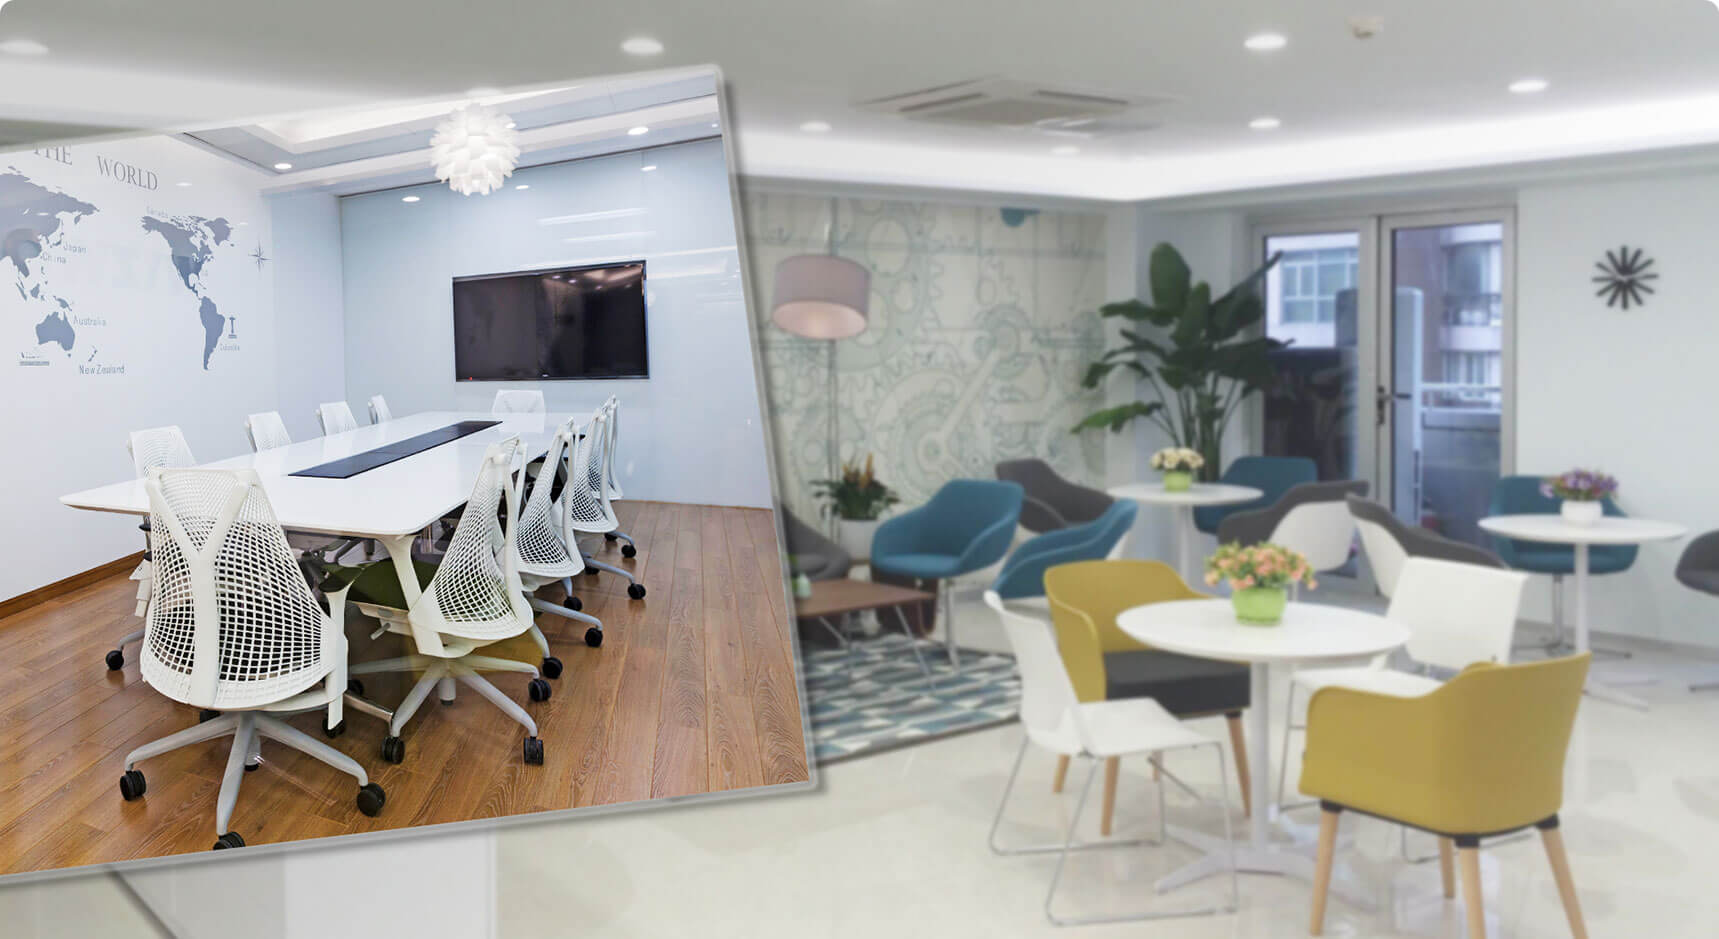
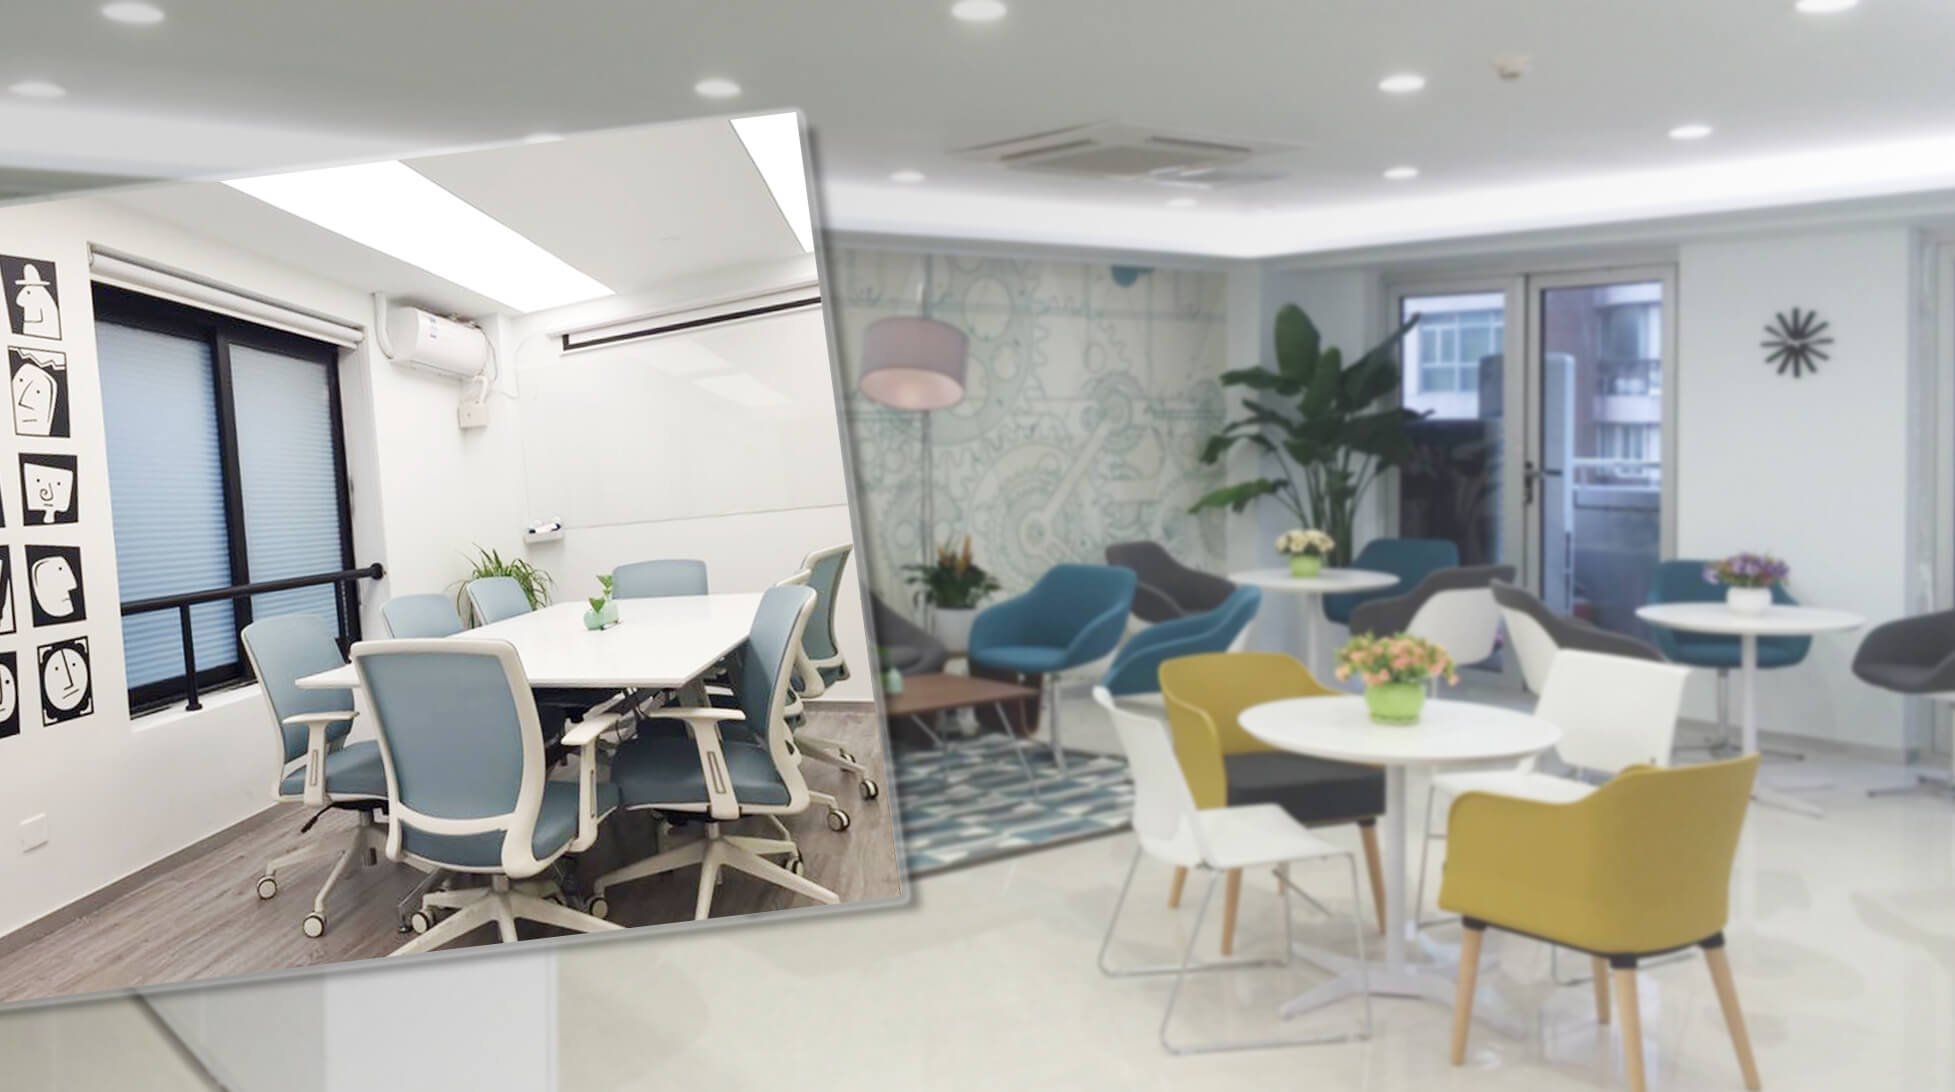
根据反馈修改按钮颜色，暂时取消首页筛选功能，替换嘉汇中心图片

diff --git a/src/pages/Home.vue b/src/pages/Home.vue
@@ -3,11 +3,11 @@
     <Topbar></Topbar>
     <div class="map">
       <img src="../images/map.jpg" alt="地图">
-      <a href="#" class="customer-service"></a>
     </div>
+    <a href="#" class="customer-service"></a>
     <div class="action-bar">
       <p class="selector-title">会议室/咖啡位位置</p>
-      <div class="selector-item before-txt">
+      <!--<div class="selector-item before-txt">
         <selector-center placeholder="类型" :options="type" @on-change="onTypeChange"></selector-center>
       </div>
       <div class="selector-item">
@@ -15,7 +15,7 @@
       </div>
       <div class="selector-item">
         <selector-center placeholder="人数" :options="members" @on-change="onMembersChange"></selector-center>
-      </div>
+      </div>-->
     </div>
     <div class="selections">
       <card @click="goToPage(item.id)" v-for="item in Location" :style="{ display: showCard(item.id) }" >
@@ -120,6 +120,13 @@ export default {
   background-color: #f4f4f4;
   overflow-x: scroll;
   height: 100%;
+  position: relative;
+}
+.home-layout .weui_panel {
+  background-color: transparent;
+}
+.home-layout .weui_panel:after {
+  border-bottom: 0;
 }
 .map {
   position: relative;
@@ -131,9 +138,10 @@ export default {
 }
 .customer-service {
   display: block;
-  position: absolute;
+  position: fixed;
   right: 15px;
-  bottom: 15px;
+  top: 160px;
+  z-index: 2;
   width: 106px;
   height: 47px;
   background: url("../images/service.png") no-repeat;

diff --git a/src/App.vue b/src/App.vue
@@ -51,6 +51,14 @@ img {
   vertical-align: top;
 }
 
+#app .weui_btn_primary {
+  background-color: #3aa1a7;
+}
+
+#app .weui_btn_warn {
+  background-color: #f5c4c8;
+}
+
 /**
 * vue-router transition
 */
